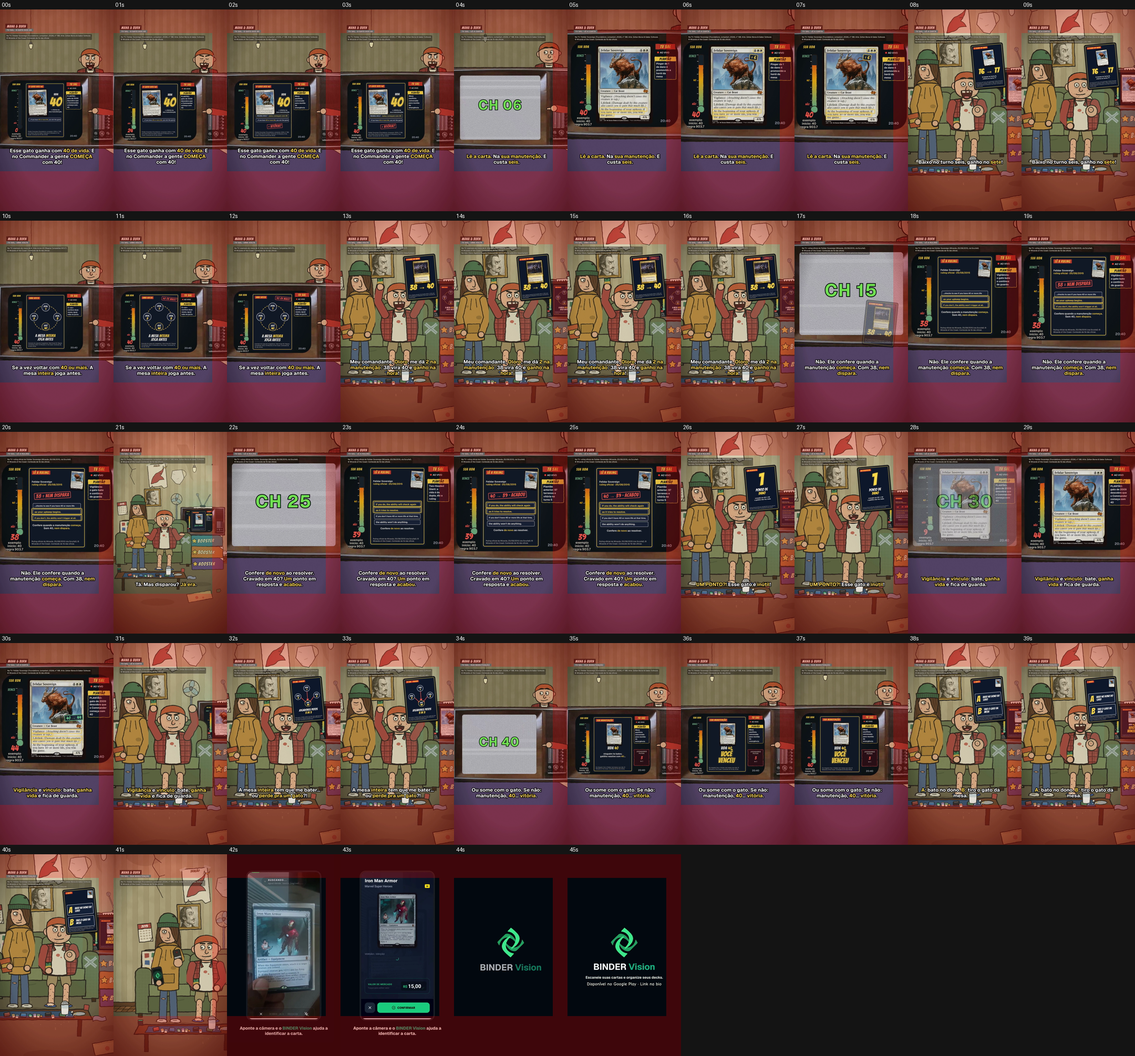
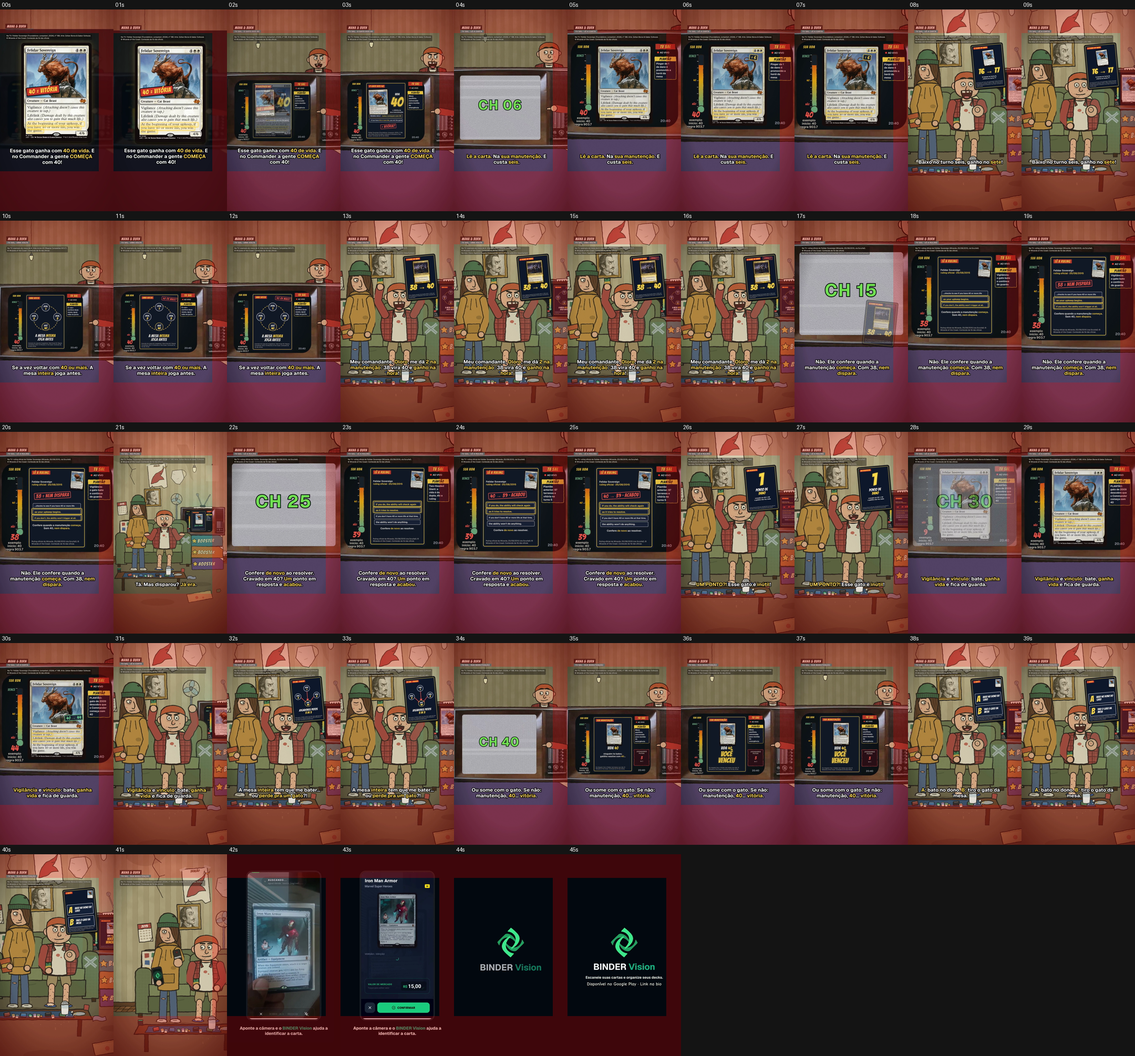
Mana & Burn: abertura de carta no quadro 0 passa a padrão; MB-EP15 v2
A carta falada abre em tela cheia (linha destacada + selo do gancho), fica só até o
número do gancho ser dito e entra na TV com zap. Opção EP.abertura no kit; sem o campo,
o kit sai igual (testado pixel a pixel). MB-EP15 re-renderizado sem créditos novos.

Claude-Session: https://claude.ai/code/session_016gdr9gyBuhFXuYzZEUwG6L

Changed region(s): [[0.0, 0.0, 0.2792, 0.2159]]

diff --git a/manaburn/index.html b/manaburn/index.html
@@ -37,6 +37,7 @@ svg{position:absolute;left:0;top:0}
   <svg id="shot2" width="1080" height="1920" viewBox="0 0 1080 1920" style="display:none"></svg>
   <svg id="fx" width="1080" height="1920"></svg>
   <div id="bug"><span class="a">MANA &amp; BURN</span><span class="b">PLANTÃO DO BANIMENTO</span></div>
+  <div id="abertura" style="display:none;position:absolute;left:0;top:0;width:1080px;height:1920px"></div>
   <div id="ins"></div>
   <div id="sub"></div>
   <div id="gancho" style="display:none;position:absolute;left:60px;right:160px;top:360px;text-align:center;font:400 112px/1.02 Bangers;letter-spacing:2px;color:#FFD84A;-webkit-text-stroke:14px #050A10;paint-order:stroke fill"></div>
@@ -590,7 +591,31 @@ function camera(t,shot){
   return W;
 }
 let last='';
+
+// ---------- abertura de carta (padrão desde 21/11/2026, kit/abertura/patch_abertura.py) ----------
+const AB = EP.abertura || null; let AB_EL=null, AB_CARD=null, AB_BACK=null, AB_SELO=null, AB_HL=[];
+if(AB){ const W=AB.w||660, H=W*1040/744, X0=(1080-W)/2, Y0=AB.top||330; AB_EL=document.getElementById('abertura');
+  AB_EL.innerHTML=`<div id="abBack" style="position:absolute;left:0;right:0;top:${AB.fundoTop??200}px;bottom:0;background:rgba(5,10,16,.80);backdrop-filter:blur(5px)"></div>
+   <div id="abCard" style="position:absolute;left:${X0}px;top:${Y0}px;width:${W}px;height:${H}px;transform-origin:50% 50%">
+    <img src="${AB.img}" style="position:absolute;inset:0;width:100%;height:100%;border-radius:${W*0.045}px;box-shadow:0 18px 0 rgba(0,0,0,.5),0 0 60px rgba(255,216,74,.25)">
+    ${(AB.hl||[]).map(r=>`<div class="abhl" style="position:absolute;left:${r[0]*100}%;top:${r[1]*100}%;width:${r[2]*100}%;height:${r[3]*100}%;border:4px solid #FFD84A;border-radius:6px;background:rgba(255,216,74,.22)"></div>`).join('')}
+    ${AB.selo?`<div id="abSelo" style="position:absolute;left:${AB.selo.x*100}%;top:${AB.selo.y*100}%;font:400 ${AB.selo.size||70}px/1 Bangers;letter-spacing:2px;color:#FFD84A;background:#C8352B;border:6px solid #050A10;border-radius:12px;padding:6px 18px;white-space:nowrap;transform:rotate(${AB.selo.rot||-6}deg);box-shadow:0 8px 0 rgba(0,0,0,.45)">${AB.selo.txt}</div>`:''}
+   </div>`;
+  AB_CARD=document.getElementById('abCard'); AB_BACK=document.getElementById('abBack'); AB_SELO=document.getElementById('abSelo'); AB_HL=[...AB_EL.querySelectorAll('.abhl')]; }
+function aberturaT1(){ const L0=LINES[0]; return L0.start+L0.dur*(AB.ate||0.45); }
+function abertura(t){ if(!AB) return; const T1=aberturaT1(), E=AB.saida||0.32;
+  if(t>=T1+E){ AB_EL.style.display='none'; return; } AB_EL.style.display='block';
+  const W=AB.w||660, H=W*1040/744, Y0=AB.top||330; let s, dx=0, dy=0, op=1, bg=1;
+  if(t<0.18){ const q=ease(clamp(t/0.18)), sh=(1-q)*8; s=1.06-0.06*q; dx=Math.sin(t*95)*sh; dy=Math.cos(t*73)*sh; }
+  else s=1+0.03*clamp((t-0.18)/Math.max(0.5,T1-0.18));
+  if(t>=T1){ const q=ease(clamp((t-T1)/E)), c=TVSHOTS.includes(POSE[0][6])?s2Cam(0,t):{s:1,cx:432,cy:963,tx:432,ty:963};
+    const cxT=c.tx+c.s*(SCR.x+SCR.w/2-c.cx), cyT=c.ty+c.s*(SCR.y+SCR.h/2-c.cy), sT=0.86*SCR.h*c.s/H, s0=1.03;
+    s=s0+(sT-s0)*q; dx=(cxT-540)*q; dy=(cyT-(Y0+H/2))*q; bg=1-q; op=q>0.8?1-(q-0.8)/0.2:1; }
+  AB_CARD.style.transform=`translate(${dx.toFixed(1)}px,${dy.toFixed(1)}px) scale(${s.toFixed(4)})`; AB_CARD.style.opacity=op; AB_BACK.style.opacity=bg;
+  if(AB_SELO){ const q=ease(clamp(t/0.16)); AB_SELO.style.scale=(1.3-0.3*q).toFixed(3); }
+  const g=0.55+0.45*Math.abs(Math.sin(t*5)); AB_HL.forEach(e=>e.style.boxShadow=`0 0 ${Math.round(18*g)}px rgba(255,216,74,${(0.7*g).toFixed(2)})`); }
 function render(t){
+  abertura(t);
   const i=Math.max(0,lineAt(t)), P=POSE[i], tq=Math.floor(t*12)/12, shot=P[6];
   if(EP.quadro){ let r=i; while(r>0&&POSE[r-1][6]===shot) r--; const im=document.getElementById('condeimg'), u=EP.quadroDir+EP.quadro[r]+'.png'; if(im&&im.getAttribute('href')!==u) im.setAttribute('href',u); }
   if(EP.pilha){ const pe=world.querySelector('#pilha'), pk=(EP.pilha.mao!=null&&i>=EP.pilha.mao)?'m':'t'; if(pe.dataset.k!==pk){ pe.innerHTML=pilhaMarkup(i); pe.dataset.k=pk; } }

diff --git a/manaburn/episodios/ep15_felidar/episode.js b/manaburn/episodios/ep15_felidar/episode.js
@@ -18,6 +18,9 @@ const EP = {
   fx: { foco: true, tremor: true, poster: true, celular: true, scanner: false, tv_ligada: true },
   outro: { assinatura: 'Escaneie suas cartas e organize sua coleção.' },
   card: { img: 'cards/s01_quarenta.png', cred: FEL },
+  // abertura de carta (padrão desde 21/11/2026): o Felidar inteiro em grande no quadro 0, com a linha da vitória destacada
+  // e o selo do gancho; sai para dentro da TV quando o Burn acaba de dizer «40 de vida» (46 % da fala 1)
+  abertura: { img: 'cards/felidar.png', ate: 0.46, hl: HL_UPKEEP, selo: { txt: '40 = VITÓRIA', x: 0.07, y: 0.44, rot: -6, size: 58 } },
   pose: [
     ['point_tv', 'rest', 'tv', 'other', 'angry', 'flat', 'tv'],      // 1 B ganha com 40, começa com 40 (quadro 0: carta + 40)
     ['point_tv', 'finger', 'left', 'x', 'up', 'x', 'tvtext'],        // 2 M Lê a carta: manutenção destacada; custo 6
@@ -47,7 +50,7 @@ const EP = {
     { file: 'cards/s13_ab.png', line: 12, at: 0.05, until: 13, cred: 'Felidar Sovereign (J25 198, arte Zoltan Boros & Gabor Szikszai).' },
   ],
   canais: [
-    { de: 0, ch: 4, canal: 'O GATO DOS 40', img: 'cards/s01_quarenta.png', meio: { at: 0.5, img: 'cards/s01_quarenta_b.png' }, cred: FEL, meter: V40, table: null },
+    { de: 0, ch: 4, canal: 'O GATO DOS 40', img: 'cards/s01_quarenta.png', meio: { at: 0.65, img: 'cards/s01_quarenta_b.png' }, cred: FEL, meter: V40, table: null },
     { de: 1, ch: 6, canal: 'LÊ A CARTA', img: 'cards/felidar.png', meio: { at: 0.55, img: 'cards/c02_custo.png' }, cred: FEL,
       hl: { tvtext: { rects: HL_UPKEEP, zoom: 1.5 } }, meter: V40, table: null },
     { de: 3, ch: 9, canal: 'UMA VOLTA', img: 'cards/s04_mesa.png', meio: { at: 0.5, img: 'cards/s04_mesa_b.png' },

diff --git a/manaburn/kit/abertura/patch_abertura.py b/manaburn/kit/abertura/patch_abertura.py
@@ -1,0 +1,75 @@
+"""Abertura de carta (padrão do Mana & Burn desde 21/11/2026, decisão do fundador). Aplica-se uma vez ao kit;
+tudo fica desligado sem o campo novo, por isso os episódios antigos saem iguais.
+
+episode.js  EP.abertura = {img, ate, hl:[[x,y,w,h],...], selo:{txt, x, y, rot}, w, top, saida}
+            img   PNG da carta falada (745x1040 do Scryfall), inteira, sem nada por cima do texto.
+            ate   fração da 1.ª fala em que a carta sai (quando a palavra-chave ou o número do gancho já foi dito).
+            hl    linhas de regra a destacar (frações da carta, as mesmas medidas do EP.canais[].hl).
+            selo  carimbo com o número do gancho, em frações da carta, sobre a arte (nunca sobre o texto).
+            w     largura da carta em px (660 por defeito: inteira entre o crédito do topo e as legendas, também no impacto de 1,06); top (330); saida (0,32 s).
+episode.json "abertura": {"ate": <igual ao do episode.js>} — o process.py põe a pancada no quadro 0 e o «zap» na saída.
+
+Comportamento: quadro 0 = carta inteira em grande, linhas destacadas e selo já visíveis (miniatura legível sem som);
+0–0,18 s impacto (escala 1,06→1, tremor que decai, pancada); depois aproxima 3 % devagar até `ate`;
+em `saida` segundos a carta voa para dentro do ecrã da TV (encolhe até ao tamanho da tela da TV SAL) e o fundo
+escurecido some. Não acrescenta tempo ao vídeo: corre por cima da 1.ª fala. Legendas e crédito ficam por cima.
+"""
+import pathlib
+K = pathlib.Path(__file__).resolve().parents[1]   # manaburn/kit
+M = K.parent                                      # manaburn/
+
+def troca(txt, a, b, nome):
+    assert txt.count(a) == 1, (nome, a[:60], txt.count(a))
+    return txt.replace(a, b)
+
+# ---- index.html ----
+p = M / 'index.html'; h = p.read_text(encoding='utf8')
+if 'EP.abertura' in h:
+    print('index.html já tem a abertura')
+else:
+    h = troca(h, '  <div id="ins"></div>', '  <div id="abertura" style="display:none;position:absolute;left:0;top:0;width:1080px;height:1920px"></div>\n  <div id="ins"></div>', 'dom')
+    fn = r'''
+// ---------- abertura de carta (padrão desde 21/11/2026, kit/abertura/patch_abertura.py) ----------
+const AB = EP.abertura || null; let AB_EL=null, AB_CARD=null, AB_BACK=null, AB_SELO=null, AB_HL=[];
+if(AB){ const W=AB.w||660, H=W*1040/744, X0=(1080-W)/2, Y0=AB.top||330; AB_EL=document.getElementById('abertura');
+  AB_EL.innerHTML=`<div id="abBack" style="position:absolute;left:0;right:0;top:${AB.fundoTop??200}px;bottom:0;background:rgba(5,10,16,.80);backdrop-filter:blur(5px)"></div>
+   <div id="abCard" style="position:absolute;left:${X0}px;top:${Y0}px;width:${W}px;height:${H}px;transform-origin:50% 50%">
+    <img src="${AB.img}" style="position:absolute;inset:0;width:100%;height:100%;border-radius:${W*0.045}px;box-shadow:0 18px 0 rgba(0,0,0,.5),0 0 60px rgba(255,216,74,.25)">
+    ${(AB.hl||[]).map(r=>`<div class="abhl" style="position:absolute;left:${r[0]*100}%;top:${r[1]*100}%;width:${r[2]*100}%;height:${r[3]*100}%;border:4px solid #FFD84A;border-radius:6px;background:rgba(255,216,74,.22)"></div>`).join('')}
+    ${AB.selo?`<div id="abSelo" style="position:absolute;left:${AB.selo.x*100}%;top:${AB.selo.y*100}%;font:400 ${AB.selo.size||70}px/1 Bangers;letter-spacing:2px;color:#FFD84A;background:#C8352B;border:6px solid #050A10;border-radius:12px;padding:6px 18px;white-space:nowrap;transform:rotate(${AB.selo.rot||-6}deg);box-shadow:0 8px 0 rgba(0,0,0,.45)">${AB.selo.txt}</div>`:''}
+   </div>`;
+  AB_CARD=document.getElementById('abCard'); AB_BACK=document.getElementById('abBack'); AB_SELO=document.getElementById('abSelo'); AB_HL=[...AB_EL.querySelectorAll('.abhl')]; }
+function aberturaT1(){ const L0=LINES[0]; return L0.start+L0.dur*(AB.ate||0.45); }
+function abertura(t){ if(!AB) return; const T1=aberturaT1(), E=AB.saida||0.32;
+  if(t>=T1+E){ AB_EL.style.display='none'; return; } AB_EL.style.display='block';
+  const W=AB.w||660, H=W*1040/744, Y0=AB.top||330; let s, dx=0, dy=0, op=1, bg=1;
+  if(t<0.18){ const q=ease(clamp(t/0.18)), sh=(1-q)*8; s=1.06-0.06*q; dx=Math.sin(t*95)*sh; dy=Math.cos(t*73)*sh; }
+  else s=1+0.03*clamp((t-0.18)/Math.max(0.5,T1-0.18));
+  if(t>=T1){ const q=ease(clamp((t-T1)/E)), c=TVSHOTS.includes(POSE[0][6])?s2Cam(0,t):{s:1,cx:432,cy:963,tx:432,ty:963};
+    const cxT=c.tx+c.s*(SCR.x+SCR.w/2-c.cx), cyT=c.ty+c.s*(SCR.y+SCR.h/2-c.cy), sT=0.86*SCR.h*c.s/H, s0=1.03;
+    s=s0+(sT-s0)*q; dx=(cxT-540)*q; dy=(cyT-(Y0+H/2))*q; bg=1-q; op=q>0.8?1-(q-0.8)/0.2:1; }
+  AB_CARD.style.transform=`translate(${dx.toFixed(1)}px,${dy.toFixed(1)}px) scale(${s.toFixed(4)})`; AB_CARD.style.opacity=op; AB_BACK.style.opacity=bg;
+  if(AB_SELO){ const q=ease(clamp(t/0.16)); AB_SELO.style.scale=(1.3-0.3*q).toFixed(3); }
+  const g=0.55+0.45*Math.abs(Math.sin(t*5)); AB_HL.forEach(e=>e.style.boxShadow=`0 0 ${Math.round(18*g)}px rgba(255,216,74,${(0.7*g).toFixed(2)})`); }
+'''
+    h = troca(h, 'function render(t){\n', fn + 'function render(t){\n  abertura(t);\n', 'render')
+    p.write_text(h, encoding='utf8'); print('abertura aplicada em', p)
+
+# ---- sfx.py: pancada no quadro 0 e zap na saída ----
+p = M / 'sfx.py'; s = p.read_text(encoding='utf8')
+if 'abertura=None' not in s:
+    s = troca(s, "          zaps=(), zaps_leves=()):", "          zaps=(), zaps_leves=(), abertura=None):", 'sfx sig')
+    s = troca(s, "    for t in raiva: put(t, thump(sr), 0.15)                          # on_rage_arms_up\n",
+              "    for t in raiva: put(t, thump(sr), 0.15)                          # on_rage_arms_up\n"
+              "    if abertura is not None:                                         # abertura de carta (21/11/2026)\n"
+              "        put(0.0, thump(sr) * 1.2); put(0.02, pop(sr) * 0.8, 0.1)       # impacto no quadro 0\n"
+              "        put(max(0, abertura - 0.02), zap(sr), -0.1)                  # a carta entra na TV\n", 'sfx put')
+    p.write_text(s, encoding='utf8'); print('abertura no sfx.py')
+
+# ---- process.py: passa o instante de saída ----
+p = M / 'process.py'; s = p.read_text(encoding='utf8')
+if "EPI.get('abertura')" not in s:
+    s = troca(s, "                carta=SFX.get('carta', 'pop'), tv=SFX.get('tv', True), zaps=zaps, zaps_leves=zaps_leves)",
+              "                carta=SFX.get('carta', 'pop'), tv=SFX.get('tv', True), zaps=zaps, zaps_leves=zaps_leves,\n"
+              "                abertura=(lines[0]['start'] + lines[0]['dur'] * EPI['abertura'].get('ate', 0.45)) if EPI.get('abertura') else None)", 'process')
+    p.write_text(s, encoding='utf8'); print('abertura no process.py')

diff --git a/manaburn/sfx.py b/manaburn/sfx.py
@@ -85,7 +85,7 @@ def zap(sr, dur=0.30, forte=True):
     return out * (1.0 if forte else 0.45)
 
 def track(n, sr, lines, t_slam, inserts=(), tv_cuts=(), shuffle_at=None, destaques=(), raiva=(), carta='pop', tv=True,
-          zaps=(), zaps_leves=()):
+          zaps=(), zaps_leves=(), abertura=None):
     """Camada de efeitos. Os eventos chegam com os horários do process.py (os mesmos que vão para o data.js)."""
     out = np.zeros((n, 2), np.float32)
     def put(t, x, pan=0.0):
@@ -102,4 +102,7 @@ def track(n, sr, lines, t_slam, inserts=(), tv_cuts=(), shuffle_at=None, destaqu
     for t in inserts: put(t, flick(sr) if carta == 'flick' else pop(sr), 0.25)   # on_secondary_card_pop
     for t in destaques: put(t, marker(sr), 0.1)                      # on_oracle_highlight
     for t in raiva: put(t, thump(sr), 0.15)                          # on_rage_arms_up
+    if abertura is not None:                                         # abertura de carta (21/11/2026)
+        put(0.0, thump(sr) * 1.2); put(0.02, pop(sr) * 0.8, 0.1)       # impacto no quadro 0
+        put(max(0, abertura - 0.02), zap(sr), -0.1)                  # a carta entra na TV
     return out

diff --git a/manaburn/process.py b/manaburn/process.py
@@ -155,7 +155,8 @@ import sfx
 SFX = EPI.get('sfx', {})
 fxt = sfx.track(n, SR, lines, T_SLAM, ins_t, cuts, sh,
                 destaques=destaques if SFX.get('destaque') else (), raiva=raiva if SFX.get('raiva') else (),
-                carta=SFX.get('carta', 'pop'), tv=SFX.get('tv', True), zaps=zaps, zaps_leves=zaps_leves)
+                carta=SFX.get('carta', 'pop'), tv=SFX.get('tv', True), zaps=zaps, zaps_leves=zaps_leves,
+                abertura=(lines[0]['start'] + lines[0]['dur'] * EPI['abertura'].get('ate', 0.45)) if EPI.get('abertura') else None)
 mix = m * g[:, None] + voice[:, None] + fxt
 mix /= np.max(np.abs(mix)) * 1.05
 with wave.open('_mix.wav', 'wb') as o:

diff --git a/comum/REGISTRO_EDITORIAL.md b/comum/REGISTRO_EDITORIAL.md
@@ -76,7 +76,7 @@ Prefixos de ID: `MB` Mana & Burn · `MC` Meta em Curto · `CM` Conde de Manafort
 | MB-EP12 | MONEY BURN: o custo do hobby — o deck que nunca fica pronto e o upgrade como desculpa | Unfinished Business; Volcanic Island; Opportunity; Greed; Price of Progress | O jogador acha que está terminando o deck; está achando novas formas de gastar — e o upgrade da base de mana vira 20 de dano (Price of Progress). Sem preços nem estatísticas | Mano, o deck tá pronto! Só falta UMA carta! | CONCLUÍDO | pedido do fundador 19/11/2026 (~19h, missão autónoma MONEY BURN); voz autorizada 19/11 19:39 («Pode terminar»); vídeo final 45,50 s, QC sem P0/P1 | 19/11/2026 (proposta e voz; publicação com o fundador) | não publicada | manaburn/episodios/ep12_money_burn/ficha.md | MB-EP08 (carta cara, ângulo diferente); LL-R01 (compra por impulso, peça do app); Numot (branch manaburn/ep10-numot, «dual de grife») | pauta livre (memoria.py pauta, 19/11); sem conflito com Vince Vault (sem preço nem variação) |
 | MB-EP13 | 97 terrenos: o deck que ganha no turno 5 | Sanar, Innovative First-Year; Treasure Hunt; Magmakin Artillerist | Três cartas e o limite de mão de sete: a Treasure Hunt põe o deck inteiro na mão e o descarte vira 85 de dano em cada oponente | Esse deck tem 97 terrenos. E ganha no turno cinco. | CONCLUÍDO | produzido 11/11/2026 (branch manaburn/ep10-97-terrenos, vozes 814 créditos, revisão do fundador 21:22 aplicada); recuperado 20/11/2026 a pedido do fundador («Faça um episódio baseado nesse vídeo», vídeo @mtgmak): re-render sem créditos, QC sem problemas | 20/11/2026 (recuperação; publicação com o fundador) | não publicada | manaburn/episodios/ep13_97_terrenos/ficha.md | MB-EP10 (candidato preterido a 12/11); ideia vista em @mtgmak (crédito na legenda) | pauta livre (memoria.py pauta, 20/11); conteúdo nunca rejeitado nem publicado |
 | MB-EP14 | EVERYTHING, MENOS TUDO: o Desert Power Everything Bundle (Secret Lair x Duna, My Arrakis, My Superdrop) reúne 2 dos 3 drops | My Arrakis, My Superdrop; Desert Power Everything Bundle; Spice (Halo Foil); Shai-Hulud | O pacote que se chama Everything não inclui tudo: Balance of Power e Deserts of Arrakis (foil e não foil) por US$ 174,99; o Spice (só Halo Foil, US$ 59,99) fica de fora. Preços oficiais da Wizards (18/11/2026), sem mercado secundário | TRÊS drops de Duna. E o pacote EVERYTHING só leva DOIS?! | CONCLUÍDO | missão autónoma do fundador MB-EP14 (20/11/2026, 00:37), com autorização do saldo ElevenLabs; vozes 1.036 créditos; vídeo final 46,70 s, QC sem P0/P1 | 20/11/2026 (missão; inclui uso do saldo ElevenLabs para as vozes aprovadas) | não publicada | manaburn/episodios/ep14_everything/ficha.md | MB-EP12 (dinheiro, ângulo de hábito, sem preços); CM-EP003 (Secret Lair, crítica de arte); Vince Vault (preço de mercado: sem conflito, só preço de venda oficial) | pauta livre (memoria.py pauta, 20/11/2026) |
-| MB-EP15 | O gato que já nasce ganhando: Felidar Sovereign vence com 40 de vida e o Commander começa com 40 | Felidar Sovereign; Oloro, Ageless Ascetic | Feito para partidas de 20 de vida, o Felidar vence na sua manutenção com 40 ou mais; no Commander basta sobreviver uma volta da mesa. O «se» confere quando a manutenção começa e de novo ao resolver: ganhar vida na manutenção não liga, e um ponto em resposta (cravado em 40) desliga | Esse gato ganha com 40 de vida. E no Commander a gente COMEÇA com 40! | CONCLUÍDO | missão autónoma «PRÓXIMO MANA & BURN» (21/11/2026, 01:51) + produção pedida pelo fundador (02:13: «Comece a criar o vídeo e só pare quando terminar»); vozes Talis + Erik 1.037 créditos; vídeo final 46,20 s, QC sem problemas; quadro do Conde (padrão novo) | 21/11/2026 (produção; publicação com o fundador) | não publicada | manaburn/episodios/ep15_felidar/ficha.md | MB-EP13 (referência de desempenho; outra mecânica, sem repetir objeto nem tese); MB-EP02/MB-EP08 (cartas que a mesa odeia, outro ângulo) | pauta livre (memoria.py pauta, 21/11/2026) |
+| MB-EP15 | O gato que já nasce ganhando: Felidar Sovereign vence com 40 de vida e o Commander começa com 40 | Felidar Sovereign; Oloro, Ageless Ascetic | Feito para partidas de 20 de vida, o Felidar vence na sua manutenção com 40 ou mais; no Commander basta sobreviver uma volta da mesa. O «se» confere quando a manutenção começa e de novo ao resolver: ganhar vida na manutenção não liga, e um ponto em resposta (cravado em 40) desliga | Esse gato ganha com 40 de vida. E no Commander a gente COMEÇA com 40! | CONCLUÍDO | missão autónoma «PRÓXIMO MANA & BURN» (21/11/2026, 01:51) + produção pedida pelo fundador (02:13: «Comece a criar o vídeo e só pare quando terminar»); vozes Talis + Erik 1.037 créditos; vídeo final 46,20 s, QC sem problemas; quadro do Conde e abertura de carta (padrões novos de 21/11) | 21/11/2026 (produção; publicação com o fundador) | não publicada | manaburn/episodios/ep15_felidar/ficha.md | MB-EP13 (referência de desempenho; outra mecânica, sem repetir objeto nem tese); MB-EP02/MB-EP08 (cartas que a mesa odeia, outro ângulo) | pauta livre (memoria.py pauta, 21/11/2026) |
 
 ## Meta em Curto (TUBO)
 

diff --git a/manaburn/PERFIL.md b/manaburn/PERFIL.md
@@ -51,6 +51,15 @@ Todas as capas do Mana & Burn, de episódios novos ou pedidas para episódios an
 
 Exemplo: `python3 capas/capa_mb.py --scryfall cmd/215 --frase "O dragão que come" --foco "terreno" --selo "−2 por pancada" --ep 11 --tag Commander --saida MB_EP11_CAPA.png`
 
+## Abertura de carta (padrão desde 21/11/2026)
+
+Decisão do fundador de 21/11/2026, 02:51 (`nucleo/DECISOES.md`). O vídeo abre com a carta de que se fala **em tela cheia**, antes da sala, com `EP.abertura` no `episode.js` e `"abertura": {"ate": …}` no `episode.json` (o mesmo valor).
+- **Quadro 0:** carta inteira (PNG do Scryfall), a linha de regra do gancho destacada (`hl`, mesmas frações do `EP.canais[].hl`) e um selo com o número do gancho sobre a arte, nunca sobre o texto nem a criatura. Legível sem som, em miniatura.
+- **Impacto:** 0–0,18 s escala 1,06→1 com tremor; pancada + pop no áudio.
+- **Tempo:** só o necessário. Sai quando o Burn acaba de dizer a palavra-chave ou o número do gancho (`ate` = fração da 1.ª fala; medir no texto: fim da frase com o número). Mínimo ~1 s, máximo 2,5 s. Se a 1.ª fala não diz o número cedo, reescreve-se a fala, não se estica a abertura.
+- **Saída:** 0,32 s a voar para dentro da TV SAL (som de troca de canal); a tela da TV continua o assunto. A troca a meio da 1.ª tela (`meio.at`) fica depois da aterragem.
+- Não conta como easter egg nem substitui a carta na TV: a TV SAL continua a mostrar a prova de cada fala.
+
 ## Quadro do Conde (padrão desde 21/11/2026)
 
 Decisão do fundador de 21/11/2026 (`nucleo/DECISOES.md`), a partir do MB-EP13. Em todos os episódios novos, o retrato do Conde de Manaforte fica na parede da sala, no lugar do quadro torto, e reage à conversa: `EP.quadroDir: 'kit/v3/conde/'` e `EP.quadro` com uma expressão por fala (`neutro`, `desconfiado`, `indignado`, `admirado`; o `medalhao` não é expressão). A expressão só muda no início de cada plano, nunca com o quadro à vista. Mapa pela emoção da fala do plano: dúvida → desconfiado; exagero ou desdém → indignado; revelação → admirado; abertura e fecho → neutro. Não conta como easter egg.
@@ -61,7 +70,7 @@ Decisão do fundador de 15/11/2026 (`nucleo/DECISOES.md`). O seguidor tem de per
 
 - **Uma imagem real por fala.** Cada fala tem a imagem do que está a ser dito: na TV SAL (um canal por fala, `EP.canais`, com som de troca de canal) ou, quando o plano é de reação (`cuB`/`cuM`), em insert ao lado da personagem (`EP.inserts`). Produto → foto oficial com crédito; carta → PNG do Scryfall; episódio da casa → capa ou quadro real; comunidade → print real do comentário; número → o número gigante na tela, com a fonte.
 - **Leitura de regra = carta com a linha destacada** (`tvtext`), sempre.
-- **Quadro 0 com Magic:** a primeira tela da TV tem uma carta ou um objeto de Magic reconhecível.
+- **Quadro 0 com Magic:** abertura de carta em tela cheia (secção «Abertura de carta»); depois, a primeira tela da TV tem a carta ou o objeto de Magic.
 - **Ritmo:** troca de imagem a cada ≤ 3 s; fala longa sem troca leva insert ou destaque a meio.
 - **Sem imagem real, não há fala sobre isso.** Se a sessão não consegue a imagem, pede-se ao fundador antes do render final; a prévia sai com a moldura «FOTO EM FALTA» e não se publica.
 - Ferramenta de referência: `manaburn/giro/2026-11-15/telas_visuais.py` (gerador de telas com foto, carta, carimbo, número gigante e miniaturas numeradas).

diff --git a/nucleo/DECISOES.md b/nucleo/DECISOES.md
@@ -2,6 +2,12 @@
 
 Uma entrada por alteração de regra: data · o quê · porquê · impacto. Mais recente no topo.
 
+## 21/11/2026 (02:51) · Mana & Burn: abertura de carta no quadro 0 passa a padrão
+
+**O quê:** todo episódio novo abre com a **carta de que se fala em tela cheia** (opção `EP.abertura` do kit, `manaburn/kit/abertura/patch_abertura.py`): (1) quadro 0 = carta inteira em grande (660 px, entre o crédito do topo e as legendas), com a linha de regra que sustenta o gancho já destacada e um selo com o número do gancho sobre a arte, nunca sobre o texto; (2) impacto nos primeiros 0,18 s (escala 1,06→1, tremor que decai, pancada + pop no áudio); (3) fica **só o tempo necessário**: até a palavra-chave ou o número do gancho ser dito na 1.ª fala (campo `ate`, fração da fala), com um mínimo de ~1 s e um máximo de 2,5 s; (4) sai em 0,32 s voando para dentro do ecrã da TV SAL, com «zap» de troca de canal, e a conversa continua na sala. Não acrescenta tempo ao vídeo: corre por cima da 1.ª fala; legendas, crédito e tarja ficam por cima. Episódio sem carta (notícia, produto): a foto oficial do objeto no mesmo lugar, com as mesmas regras.
+**Porquê:** fundador, 21/11/2026 (02:51): «No início do vídeo tem que ser padrão a carta falada em questão dá o feedback visual e impactante bem no início do vídeo e fique só o tempo necessário. Refine essa ideia». Refinamento: o tempo de exibição fica preso ao gancho falado (não a um número fixo de segundos) e a saída para dentro da TV liga a abertura à cena, em vez de um corte.
+**Impacto:** vale para episódios novos do Mana & Burn a partir do MB-EP15 (v2); publicados não se reabrem. Sem o campo, o kit sai igual (testado pixel a pixel a 0 · 1,5 · 30 s). Regra em `manaburn/PERFIL.md` («Abertura de carta»), `manaburn/LEIA-ME.md` e `nucleo/SHOWRUNNER.md` §4.1 (linha do Mana & Burn).
+
 ## 21/11/2026 (02:13) · Mana & Burn: quadro do Conde na parede passa a padrão; kit v3 na `main`; mensagem subliminar não adotada
 
 **O quê:** (1) O retrato do Conde de Manaforte na parede da sala (moldura dourada no lugar do quadro torto, uma expressão por fala, troca só no início de cada plano), usado no MB-EP13, passa a **padrão de todos os episódios novos do Mana & Burn** (`EP.quadro` + `EP.quadroDir: 'kit/v3/conde/'`). (2) O kit v3 sai da branch `manaburn/ep10-97-terrenos` para a `main` (`manaburn/kit/v3/`: `patch_index_v3.py`, `check_quadro.py`, `juntar_fecho_v3.py`, PNG do Conde iguais a `conde/assets/`) e o `index.html` recebe os ganchos v3 (quadro, folhinha, pilha, gancho, marca, loop, desliga). Uma linha do patch foi ajustada à flag `tv_ligada` do MB-EP12. Sem os campos novos, os episódios antigos saem iguais (Ep. 9 renderizado antes/depois a 1,5 · 13 · 30 s: diferença nula, pixel a pixel). (3) Pedido do fundador para pôr uma «mensagem subliminar imperceptível» nos episódios para melhorar métricas: **não adotado**. Publicidade subliminar é proibida em Portugal (Código da Publicidade, art. 9.º) e tratada como abusiva no Brasil (CDC), e contraria a constituição (não enganar o público). Alternativa honesta em uso: easter egg visível (máx. 1 por episódio, `comum/easter_eggs.md`) com convite no comentário fixado («Tem um detalhe escondido na TV. Achou? Diga o segundo.»).

diff --git a/manaburn/episodios/ep15_felidar/ficha.md b/manaburn/episodios/ep15_felidar/ficha.md
@@ -243,17 +243,17 @@ Relógio da TV SAL em «20:40» = os 20 de vida do formato para que o Felidar fo
 |---|---|---|---|
 | Resolução / fps | 1080×1920, 30 | 1080×1920, 30 | ✔ |
 | Duração | livre; ref. EP13 45,83 s | **46,20 s** (42,33 s + fecho 3,87 s) | ✔ |
-| Loudness / pico | −14 LUFS / < −1 dBTP | −14,7 LUFS / −1,3 dBTP | ✔ (EP13: −14,5) |
+| Loudness / pico | −14 LUFS / < −1 dBTP | −14,8 LUFS / −1,1 dBTP (v2) | ✔ (EP13: −14,5) |
 | Fecho do scanner | presente | presente a 42,33 s | ✔ |
 | Bordas da TV (`bordas.py`) | OK | 748 quadros, laterais 12–1068 px | ✔ |
-| Quadro 0 | carta + 40 legíveis sem som | Felidar + «VIDA 40» + linha da carta na TV SAL acesa | ✔ |
+| Quadro 0 | carta + 40 legíveis sem som | v2: Felidar em tela cheia, linha da vitória destacada, selo «40 = VITÓRIA» | ✔ |
 | Mudança visual ≤ 3 s | ≤ 3 s | maior intervalo ≈ 2,8 s (31,43→34,27) | ✔ |
 | Som em cada revelação | sim | troca de canal, destaque, cartas, raiva (process.py: 4 destaques, 5 cartas, 7 zaps) | ✔ |
 | Pagamento do gancho | ~37,5 s | «VOCÊ VENCEU» a 36,46 s | ✔ |
 | Destaques alinhados | sim | conferidos a 6,5 s (manutenção) e 19,5 s (ruling) | ✔ |
 | Factos = ficha | sim | sim | ✔ |
 
-Nota: o medidor «SUA VIDA» do quadro 0 ainda está a subir (mostra 0 nos primeiros 0,35 s e chega a 40 com a animação padrão do kit); a tela ao lado já mostra «40» gigante.
+**v2 (21/11, 02:51–03:15) · abertura de carta (padrão novo):** quadro 0 com o Felidar em tela cheia (660 px), as três linhas «At the beginning of your upkeep, if you have 40 or more life, you win the game.» destacadas e o selo «40 = VITÓRIA» sobre as montanhas da arte; impacto 0–0,18 s com pancada; sai a 2,21 s (46 % da fala 1, logo depois de «40 de vida») e aterra na TV a 2,53 s com «zap». A troca a meio da 1.ª tela passou de 0,50 para 0,65 da fala (2,98 s), depois da aterragem. Sem créditos novos (mesmas vozes). O medidor «SUA VIDA», que subia de 0 no quadro 0, fica escondido pela abertura.
 
 | Rubrica (medida na folha de contacto, sem som) | Medida |
 |---|---|

diff --git a/STATUS.md b/STATUS.md
@@ -5,7 +5,7 @@ Missão "Visual Evolution & Character Excellence" (02/11/2026) integrada em `mai
 
 ## MB-EP15 · O gato dos 40 (21/11/2026, 02h45) — CONCLUÍDO; publicação com o fundador
 
-Felidar Sovereign: vence na sua manutenção com 40 de vida, e no Commander todo mundo começa com 40. Escolhido entre 3 candidatos (missão de 01:51); produzido a pedido do fundador (02:13). Vozes Talis + Erik, 1.037 créditos. Vídeo final 46,20 s com fecho (EP13: 45,83 s), −14,7 LUFS, QC sem problemas, `bordas.py` OK; vídeo e capa entregues na conversa (não versionados). Pacote em `manaburn/episodios/ep15_felidar/`. **Novo padrão:** quadro do Conde na parede em todos os episódios novos; kit v3 integrado na `main` (`nucleo/DECISOES.md`, 21/11). Mensagem subliminar pedida: não adotada (proibição legal). Falta: escuta das pronúncias e publicação; confirmar data e impulso do MB-EP13 (as métricas indicam que saiu); par de publicação (carrossel do app) com capturas reais.
+Felidar Sovereign: vence na sua manutenção com 40 de vida, e no Commander todo mundo começa com 40. Escolhido entre 3 candidatos (missão de 01:51); produzido a pedido do fundador (02:13). Vozes Talis + Erik, 1.037 créditos. Vídeo final 46,20 s com fecho (EP13: 45,83 s), −14,7 LUFS, QC sem problemas, `bordas.py` OK; vídeo e capa entregues na conversa (não versionados). Pacote em `manaburn/episodios/ep15_felidar/`. **Novos padrões (21/11):** quadro do Conde na parede; **abertura de carta** (a carta falada em tela cheia no quadro 0, só até o número do gancho ser dito, e depois entra na TV; v2 do MB-EP15 já com ela); kit v3 integrado na `main` (`nucleo/DECISOES.md`). Mensagem subliminar pedida: não adotada (proibição legal). Falta: escuta das pronúncias e publicação; confirmar data e impulso do MB-EP13 (as métricas indicam que saiu); par de publicação (carrossel do app) com capturas reais.
 
 ## ABISMO · campanha Nauctis (20/11/2026, 11h) — AB-04 v2 e AB-05 a AB-10
 

diff --git a/nucleo/SHOWRUNNER.md b/nucleo/SHOWRUNNER.md
@@ -101,7 +101,7 @@ O gancho decide-se **antes do roteiro**, a partir da evidência visual mais fort
 | Frente | Quadro 0 e objeto | Som | Onde está a regra |
 |---|---|---|---|
 | Meta em Curto | Grelha 2×2 do MC-ESP01 com cartas ou deck reais (e foto do jogador autorizada); revelação até 3 s; mergulho no terminal; dados e fonte legíveis; mudança ≤ 3 s; pagamento; fecho oficial | sonoplastia do TUBO (CRT, modem, glitch) | `oraculo/CONTEXTO.md` §7 |
-| Mana & Burn | Carta ou objeto de Magic na TV SAL com a dor da mesa e um número na 1.ª fala do Burn; evidência visual em cada fala | troca de canal da TV SAL | `manaburn/PERFIL.md` |
+| Mana & Burn | Abertura de carta: a carta falada em tela cheia no quadro 0 (linha destacada + selo com o número), só até o número do gancho ser dito, e depois entra na TV SAL; dor da mesa e número na 1.ª fala do Burn; evidência visual em cada fala | pancada no quadro 0 e troca de canal da TV SAL | `manaburn/PERFIL.md` («Abertura de carta») |
 | Conde de Manaforte | A obra (ou o detalhe que sustenta a análise) já no ecrã enquanto corre a abertura; nunca estatística como gancho | trilha e sons do Tribunal | `conde/PERFIL.md` |
 | Vince Vault | Carta real + número + data, só com os recursos 2D aprovados (3D é arquivo) | só sons aprovados da frente (Fonte sintetizada) | `vince/PERFIL.md` |
 | Órbita | Carta Star Trek inteira e parada desde o quadro 0 (loop de 12 s); nada de outras frentes | sem áudio no ficheiro (música no Instagram) | `orbita/CONTEXTO.md` §4 |

diff --git a/manaburn/LEIA-ME.md b/manaburn/LEIA-ME.md
@@ -97,3 +97,7 @@ Corte das vozes quando a legenda mostra números em algarismos e a voz os diz po
 
 `kit/v3/` veio da branch `manaburn/ep10-97-terrenos` (MB-EP13) e o `index.html` já tem os ganchos aplicados (`patch_index_v3.py` não se volta a correr: recusa um `index.html` que já os tenha). Campos do `episode.js`, todos opcionais: `quadro` + `quadroDir` (retrato do Conde, **padrão** desde 21/11), `calendario` (folhinha), `pilha`, `cams`, `gancho`, `marca`, `loop`, `desliga`, `canais[].subir`. Sem eles, o episódio sai igual ao kit v2 (testado com o Ep. 9). Conferir que as trocas de expressão caem em cortes: `python3 kit/v3/check_quadro.py`. Episódio de referência com o quadro e a TV acesa no quadro 0: `episodios/ep15_felidar/`.
 
+## Abertura de carta (21/11/2026, padrão)
+
+`kit/abertura/patch_abertura.py` já está aplicado ao `index.html`, `sfx.py` e `process.py` (não voltar a correr; reconhece um kit que já o tenha). Campos: `EP.abertura = {img, ate, hl, selo:{txt,x,y,rot,size}, w (660), top (330), saida (0.32), fundoTop (200)}` no `episode.js` e `"abertura": {"ate": …}` no `episode.json` (o mesmo `ate`: o `process.py` põe a pancada no quadro 0 e o «zap» na saída). Regras de uso em `PERFIL.md` («Abertura de carta»). Referência: `episodios/ep15_felidar/`.
+
